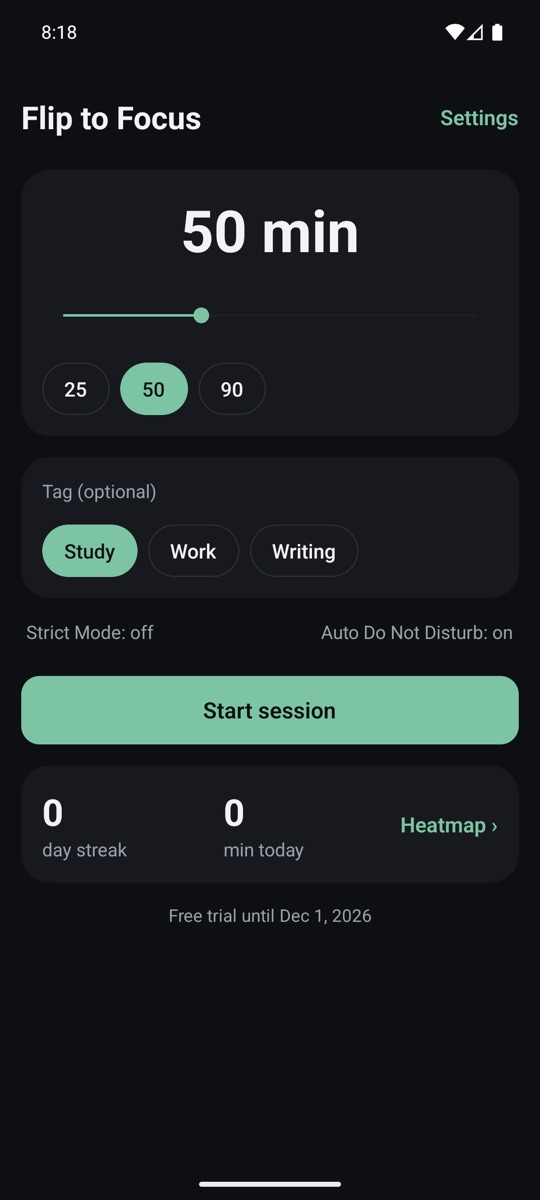
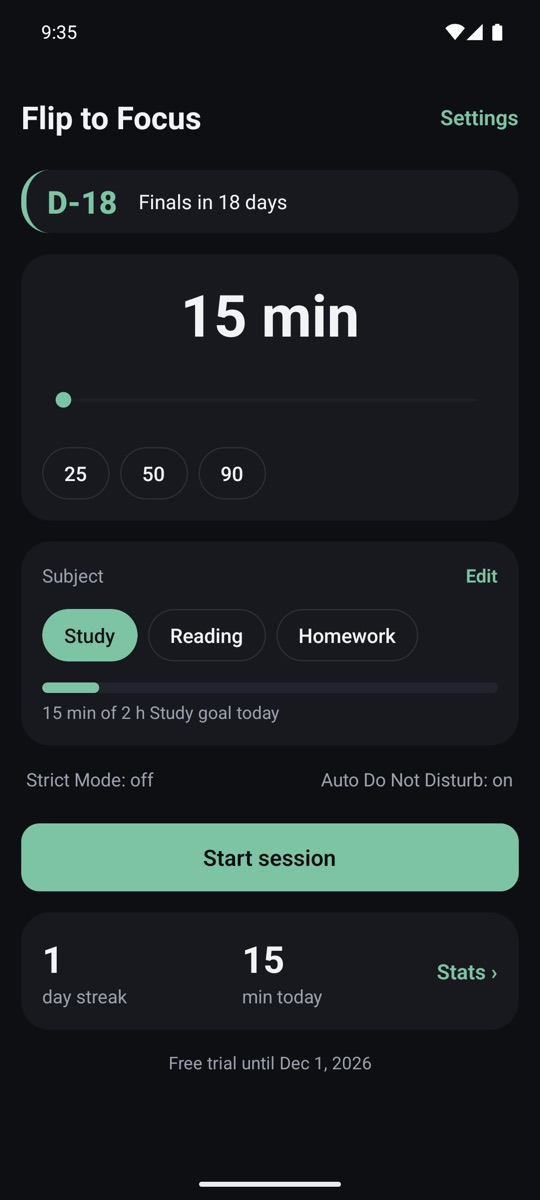
Flip to Focus 1.1: subjects, exam countdown, stats, focus score, breaks and share card
- Feature grid and JSON-LD featureList updated for v1.1
- New Share section with a real share card from the app
- FAQ: Pomodoro and focus score
- Privacy policy covers new on-device data and share images
- Home screenshot refreshed

diff --git a/flip-to-focus/index.html b/flip-to-focus/index.html
@@ -45,7 +45,8 @@
         "https://azai.ca/flip-to-focus/img/place-face-down.jpg",
         "https://azai.ca/flip-to-focus/img/timer-running.jpg",
         "https://azai.ca/flip-to-focus/img/paused.jpg",
-        "https://azai.ca/flip-to-focus/img/home.jpg"
+        "https://azai.ca/flip-to-focus/img/home.jpg",
+        "https://azai.ca/flip-to-focus/img/share-card.jpg"
       ],
       "offers": {
         "@type": "Offer",
@@ -60,7 +61,13 @@
         "Automatic Do Not Disturb during sessions",
         "Optional Strict Mode",
         "Daily streaks and a year-long heatmap",
-        "Session tags and CSV export",
+        "Weekly and monthly study stats with a daily report",
+        "Subjects with daily study goals",
+        "Exam countdown (D-day) on the home screen",
+        "Focus score for every session",
+        "Break timer between sessions",
+        "Shareable study-time card for Instagram and other apps",
+        "CSV export",
         "No ads, no account, no data collection"
       ],
       "publisher": { "@id": "https://azai.ca/#org" }
@@ -113,6 +120,16 @@
           "@type": "Question",
           "name": "Does it drain the battery?",
           "acceptedAnswer": { "@type": "Answer", "text": "The screen switches off while the phone lies face down, so a session uses far less battery than a timer that keeps the display on." }
+        },
+        {
+          "@type": "Question",
+          "name": "Can I use it as a Pomodoro timer?",
+          "acceptedAnswer": { "@type": "Answer", "text": "Yes. Pick a 25-minute preset, and after each completed session Flip to Focus offers a 5, 10 or 15-minute break timer before the next one." }
+        },
+        {
+          "@type": "Question",
+          "name": "What is the focus score?",
+          "acceptedAnswer": { "@type": "Answer", "text": "Every completed session gets a score out of 100. You start at 100, and picking the phone up or leaving it paused lowers the score, so you can see at a glance how focused a session really was." }
         },
         {
           "@type": "Question",
@@ -237,6 +254,7 @@
   .split { display: grid; grid-template-columns: 1fr 280px; gap: 64px; align-items: center; }
   .split p { font-size: 16px; color: var(--ink-soft); margin-bottom: 14px; max-width: 560px; }
 
+  .card-img { border-radius: 24px; box-shadow: 0 30px 60px rgba(20, 60, 45, 0.22); max-width: 300px; }
   .price { font-size: 16px; max-width: 640px; color: var(--ink-soft); }
   .price strong { color: var(--ink); font-weight: 500; }
 
@@ -325,10 +343,10 @@
   <div class="steps">
     <div class="step">
       <div class="phone"><img src="/flip-to-focus/img/home.jpg" width="540" height="1200" loading="lazy"
-           alt="Choosing a 50 minute study session with a Study tag in Flip to Focus"></div>
+           alt="Flip to Focus home screen with an exam countdown, session length and Study subject goal"></div>
       <div class="n">01</div>
-      <h3>Pick a session length</h3>
-      <p>Anywhere from 15 to 120 minutes, or tap a preset. Tag it Study, Work or Writing if you like.</p>
+      <h3>Pick a length and subject</h3>
+      <p>Anywhere from 15 to 120 minutes, or tap a preset. Choose a subject and watch your daily goal fill up.</p>
     </div>
     <div class="step">
       <div class="phone"><img src="/flip-to-focus/img/place-face-down.jpg" width="540" height="1200" loading="lazy"
@@ -365,17 +383,42 @@
       <p>Optional. Pick the phone up for more than 10 seconds and the session ends. A strong vibration warns you first.</p>
     </div>
     <div class="feature">
-      <h3>Streaks and a yearly heatmap</h3>
-      <p>See every day you focused and for how long. Your streak counts days with at least one completed session.</p>
+      <h3>Subjects and daily goals</h3>
+      <p>Add your own subjects — Biology, Math, Reading — and set a daily goal for each. A progress bar shows how close you are today.</p>
     </div>
     <div class="feature">
-      <h3>Study time tracker</h3>
-      <p>Every session is logged with its length and tag. Export the whole history as a CSV file for a spreadsheet.</p>
+      <h3>Study stats and streaks</h3>
+      <p>Minutes per day for the week and month, time by subject, a daily report, your streak and a year-long heatmap. Export it all as CSV.</p>
+    </div>
+    <div class="feature">
+      <h3>Exam countdown</h3>
+      <p>Add your exam date and the home screen shows D-12, D-11, D-10… so you always know how long is left.</p>
+    </div>
+    <div class="feature">
+      <h3>Focus score and breaks</h3>
+      <p>Every session gets a score out of 100 based on how often you picked the phone up. Then take a 5, 10 or 15-minute break, Pomodoro style.</p>
+    </div>
+    <div class="feature">
+      <h3>Share your study time</h3>
+      <p>Turn today or this week into a clean card for your Instagram story or a study group chat. Made on your phone — nothing is uploaded.</p>
     </div>
     <div class="feature">
       <h3>Easy on the battery</h3>
       <p>The proximity sensor switches the screen off while the phone lies face down, so the timer runs without lighting up the display.</p>
     </div>
+  </div>
+</section>
+
+<section>
+  <div class="split">
+    <div>
+      <div class="section-label">Share</div>
+      <h2>Show your study time, not your data.</h2>
+      <p>Turn today or this week into a clean card — minutes studied, streak, sessions and focus score — and post it to your Instagram story or study group chat.</p>
+      <p>The image is made on your phone and handed to the app you choose. Nothing is uploaded by Flip to Focus.</p>
+    </div>
+    <img class="card-img" src="/flip-to-focus/img/share-card.jpg" width="576" height="720" loading="lazy"
+         alt="Flip to Focus share card: today I studied 15 minutes with my phone face down, 1 day streak, focus score 94">
   </div>
 </section>
 
@@ -448,6 +491,14 @@
   <details>
     <summary>Does it drain the battery?</summary>
     <p>The screen switches off while the phone lies face down, so a session uses far less battery than a timer that keeps the display on.</p>
+  </details>
+  <details>
+    <summary>Can I use it as a Pomodoro timer?</summary>
+    <p>Yes. Pick a 25-minute preset, and after each completed session Flip to Focus offers a 5, 10 or 15-minute break timer before the next one.</p>
+  </details>
+  <details>
+    <summary>What is the focus score?</summary>
+    <p>Every completed session gets a score out of 100. You start at 100, and picking the phone up or leaving it paused lowers the score, so you can see at a glance how focused a session really was.</p>
   </details>
   <details>
     <summary>Can it help if I have ADHD?</summary>

diff --git a/flip-to-focus/privacy.html b/flip-to-focus/privacy.html
@@ -72,7 +72,7 @@
 <main>
 
 <h1>Privacy Policy</h1>
-<p class="updated">Last updated: 2 November 2026</p>
+<p class="updated">Last updated: 2 November 2026 (version 1.1)</p>
 
 <h2>The short version</h2>
 <p>
@@ -102,16 +102,24 @@
 <h2>What stays on your device</h2>
 <ul>
   <li>Your focus sessions: start time, planned length, focused minutes,
-      whether the session was completed, and an optional tag such as
-      "Study".</li>
-  <li>Your settings, such as session length, Strict Mode and
-      Do Not Disturb preferences.</li>
+      paused time, how often the phone was picked up, whether the session
+      was completed, and the subject you chose.</li>
+  <li>Your settings, such as session length, subjects and daily goals,
+      exam name and date, break length, Strict Mode and Do Not Disturb
+      preferences.</li>
   <li>The date your 30-day free trial started.</li>
 </ul>
 <p>
   None of this is sent to AZAI Corp. or any third party. Deleting the
   app deletes it. You can export your session history as a CSV file at
   any time; where that file goes is up to you.
+</p>
+
+<h2>Share images</h2>
+<p>
+  When you tap Share, the study-time image is drawn on your phone and handed
+  to the app you choose through Android's share sheet. Flip to Focus does not
+  upload it anywhere; what happens next is up to you and the app you share to.
 </p>
 
 <h2>Android backup</h2>
